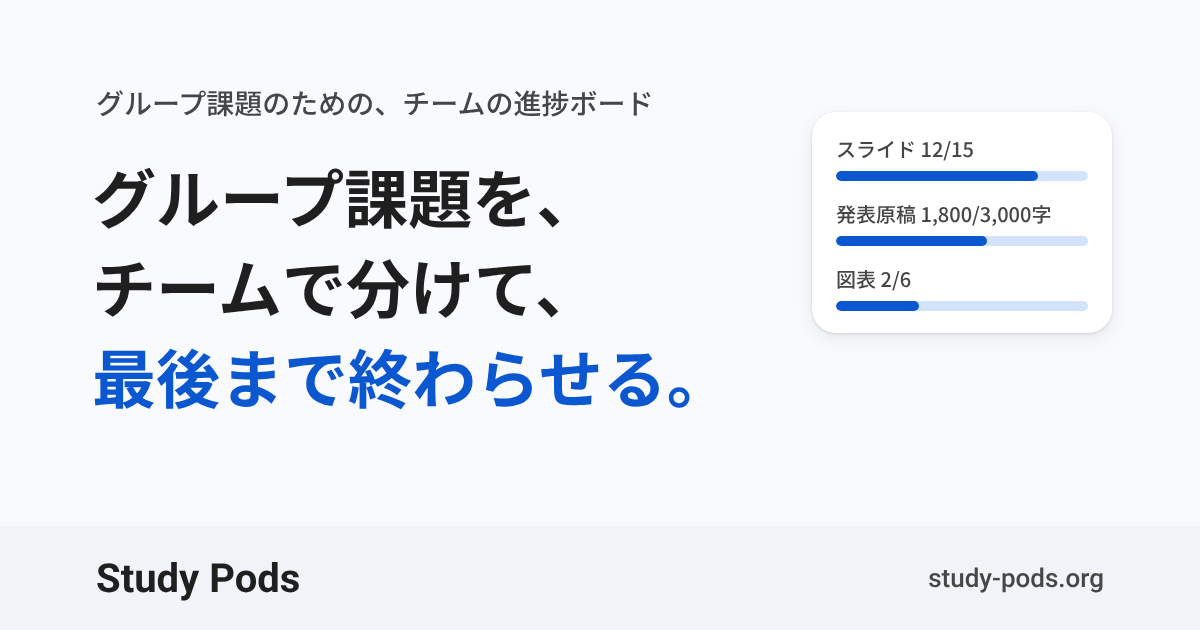
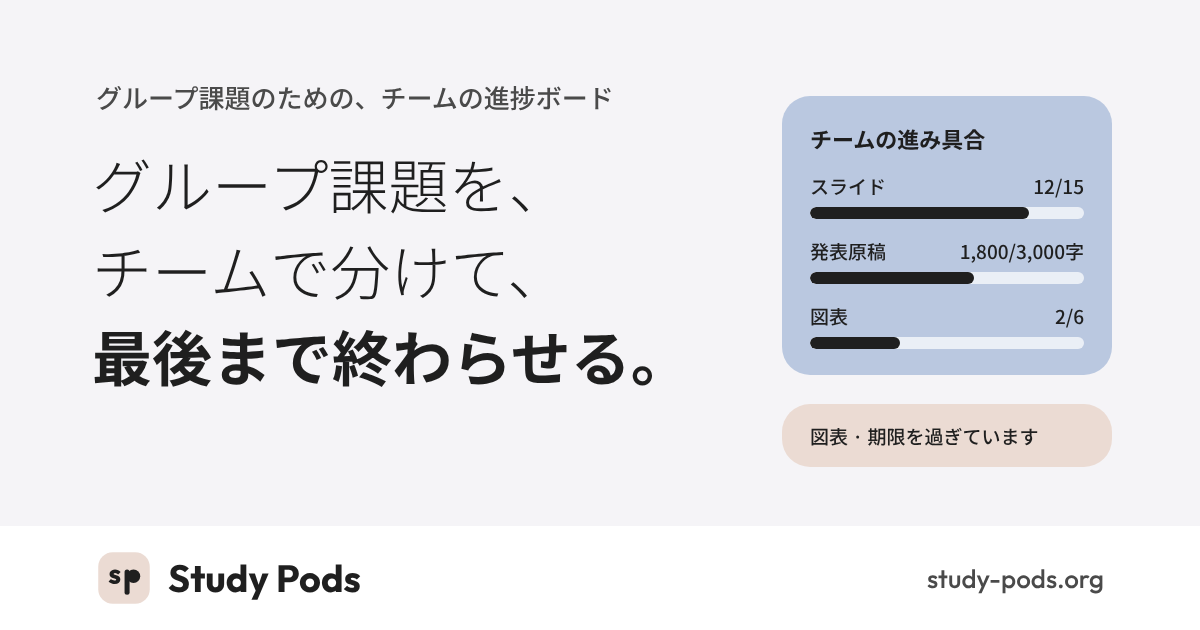
Link preview in the soft pastel design
The link preview (app/opengraph-image.png) now matches the new UI: the
porcelain page, the hero copy with its last line in bold, the team's
progress on Penna, a late task on Hudson, and the sp mark beside the
name in the footer. Source: docs/og-image/og-image.html.

Claude-Session: https://claude.ai/code/session_01QhzknfrSip8LTiVKg4Hvha

diff --git a/docs/og-image/og-image.html b/docs/og-image/og-image.html
@@ -10,43 +10,55 @@
     chrome --headless=new --hide-scrollbars --window-size=1200,630
            --virtual-time-budget=5000 --screenshot=app/opengraph-image.png
            file:///…/docs/og-image/og-image.html
-  Material 3 (item H): the app's palette (app/globals.css), Roboto + Noto Sans JP.
+  Soft pastel (2026-11-06): the app's palette (app/globals.css), Outfit +
+  Noto Sans JP, and the sp mark (docs/icons/sp-mark.svg).
 -->
-<link rel="stylesheet" href="https://fonts.googleapis.com/css2?family=Noto+Sans+JP:wght@500;700&family=Roboto:wght@500;700&display=block">
+<link rel="stylesheet" href="https://fonts.googleapis.com/css2?family=Noto+Sans+JP:wght@300;500;700&family=Outfit:wght@300;500;700&display=block">
 <style>
   html, body { margin: 0; }
   body {
     width: 1200px; height: 630px; overflow: hidden; position: relative;
-    background: #f8fafd; color: #1f1f1f;
-    font-family: 'Roboto', 'Noto Sans JP', sans-serif;
+    background: #f5f4f7; color: #1f1f1f;
+    font-family: 'Outfit', 'Noto Sans JP', sans-serif;
   }
-  .eyebrow { position: absolute; left: 96px; top: 84px; margin: 0; font: 500 28px/1.3 'Noto Sans JP', sans-serif;
-             color: #444746; }
-  h1 { position: absolute; left: 92px; top: 150px; margin: 0; font: 700 64px/90px 'Noto Sans JP', sans-serif; }
+  .eyebrow { position: absolute; left: 96px; top: 80px; margin: 0; font: 500 26px/1.3 'Noto Sans JP', sans-serif; color: #4a4a4a; }
+  h1 { position: absolute; left: 92px; top: 140px; margin: 0; font: 300 60px/86px 'Noto Sans JP', sans-serif; }
   h1 span { display: block; }
-  h1 .accent { color: #0b57d0; }
-  .board { position: absolute; right: 88px; top: 112px; width: 300px; padding: 22px 24px; box-sizing: border-box;
-           background: #ffffff; border-radius: 24px; box-shadow: 0 1px 3px rgba(0,0,0,.12), 0 6px 16px 2px rgba(0,0,0,.06); }
+  h1 .strong { font-weight: 700; }
+  .board { position: absolute; right: 88px; top: 96px; width: 330px; padding: 26px 28px; box-sizing: border-box;
+           background: #bac8e0; border-radius: 28px; }
+  .board h2 { margin: 0 0 18px; font: 700 22px 'Noto Sans JP', sans-serif; }
   .row { margin-bottom: 18px; }
   .row:last-child { margin-bottom: 0; }
-  .label { font: 500 20px 'Noto Sans JP', sans-serif; color: #444746; margin-bottom: 8px; }
-  .track { height: 10px; border-radius: 999px; background: #d3e3fd; overflow: hidden; }
-  .fill { height: 100%; border-radius: 999px; background: #0b57d0; }
-  footer { position: absolute; left: 0; right: 0; bottom: 0; height: 104px; background: #f0f4f9;
+  .label { font: 500 19px 'Noto Sans JP', sans-serif; margin-bottom: 8px; display: flex; justify-content: space-between; }
+  .track { height: 12px; border-radius: 999px; background: rgba(255,255,255,.7); overflow: hidden; }
+  .fill { height: 100%; border-radius: 999px; background: #1f1f1f; }
+  .late { position: absolute; right: 88px; top: 404px; width: 330px; padding: 18px 28px; box-sizing: border-box;
+          background: #ebdbd3; border-radius: 28px; font: 500 19px 'Noto Sans JP', sans-serif; }
+  footer { position: absolute; left: 0; right: 0; bottom: 0; height: 104px; background: #ffffff;
            display: flex; align-items: center; justify-content: space-between;
            padding: 0 96px; box-sizing: border-box; }
-  .brand { font: 700 40px 'Roboto', sans-serif; }
-  .url { font: 500 26px 'Roboto', sans-serif; color: #444746; }
+  .brand { display: flex; align-items: center; gap: 16px; font: 700 38px 'Outfit', sans-serif; }
+  .mark { width: 56px; height: 56px; }
+  .url { font: 500 26px 'Outfit', sans-serif; color: #4a4a4a; }
 </style>
 </head>
 <body>
   <p class="eyebrow">グループ課題のための、チームの進捗ボード</p>
-  <h1><span>グループ課題を、</span><span>チームで分けて、</span><span class="accent">最後まで終わらせる。</span></h1>
+  <h1><span>グループ課題を、</span><span>チームで分けて、</span><span class="strong">最後まで終わらせる。</span></h1>
   <div class="board" aria-hidden="true">
-    <div class="row"><div class="label">スライド 12/15</div><div class="track"><div class="fill" style="width:80%"></div></div></div>
-    <div class="row"><div class="label">発表原稿 1,800/3,000字</div><div class="track"><div class="fill" style="width:60%"></div></div></div>
-    <div class="row"><div class="label">図表 2/6</div><div class="track"><div class="fill" style="width:33%"></div></div></div>
+    <h2>チームの進み具合</h2>
+    <div class="row"><div class="label"><span>スライド</span><span>12/15</span></div><div class="track"><div class="fill" style="width:80%"></div></div></div>
+    <div class="row"><div class="label"><span>発表原稿</span><span>1,800/3,000字</span></div><div class="track"><div class="fill" style="width:60%"></div></div></div>
+    <div class="row"><div class="label"><span>図表</span><span>2/6</span></div><div class="track"><div class="fill" style="width:33%"></div></div></div>
   </div>
-  <footer><span class="brand">Study Pods</span><span class="url">study-pods.org</span></footer>
+  <div class="late" aria-hidden="true">図表 · 期限を過ぎています</div>
+  <footer><span class="brand"><svg class="mark" xmlns="http://www.w3.org/2000/svg" viewBox="0 0 100 100" aria-hidden="true">
+  <rect x="4" y="4" width="92" height="92" rx="26" fill="#ebdbd3"/>
+  <path transform="translate(22 60) scale(0.05 -0.05)" fill="#1f1f1f" d="M231 -12Q188 -12 146.5 -1.0Q105 10 69.5 30.5Q34 51 9 78L96 166Q120 140 153.0 125.5Q186 111 225 111Q252 111 266.5 119.0Q281 127 281 141Q281 159 263.5 168.5Q246 178 219.0 185.5Q192 193 162.0 202.0Q132 211 105.0 227.0Q78 243 61.0 271.5Q44 300 44 344Q44 391 68.0 425.5Q92 460 136.0 480.0Q180 500 239 500Q301 500 353.5 478.5Q406 457 439 415L352 327Q329 354 300.5 365.0Q272 376 245 376Q219 376 206.0 368.5Q193 361 193 347Q193 332 210.0 323.0Q227 314 254.0 307.0Q281 300 311.0 290.0Q341 280 368.0 263.0Q395 246 412.0 217.5Q429 189 429 143Q429 72 375.5 30.0Q322 -12 231 -12Z"/>
+  <rect x="51" y="35" width="9" height="45" rx="4.5" fill="#1f1f1f"/>
+  <circle cx="67" cy="47" r="12" fill="#1f1f1f"/>
+</svg>
+Study Pods</span><span class="url">study-pods.org</span></footer>
 </body>
 </html>
